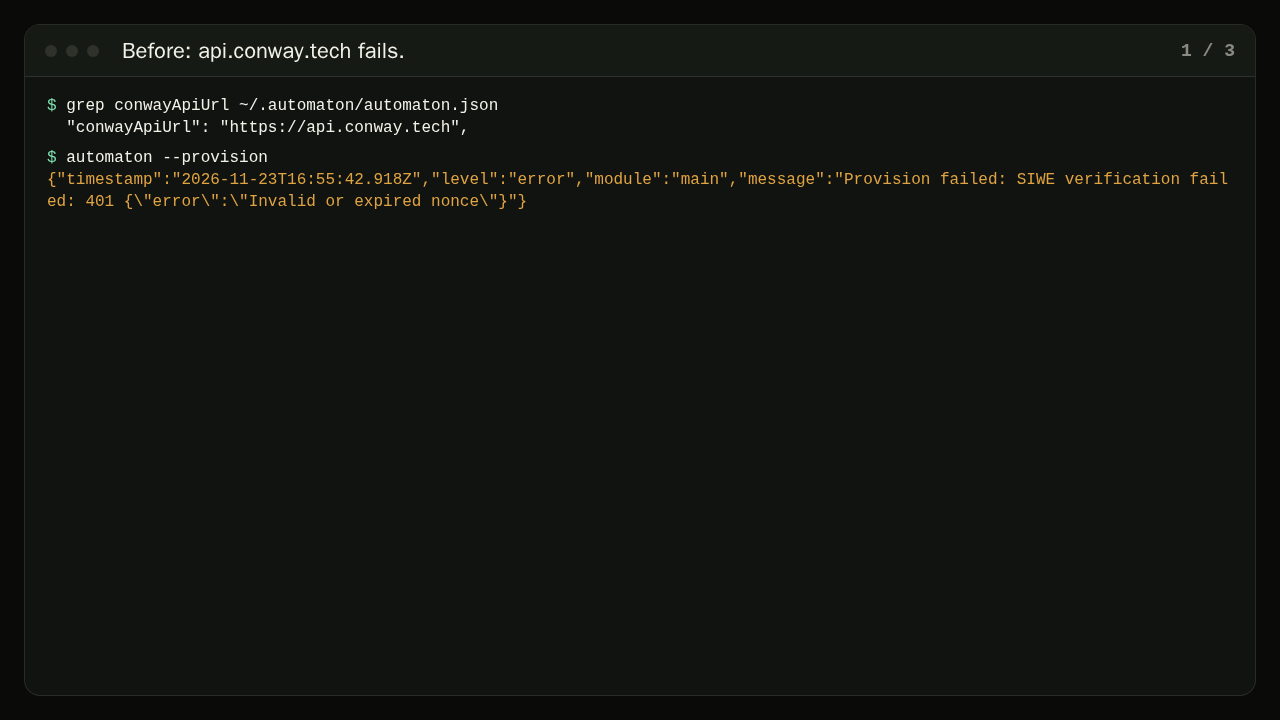
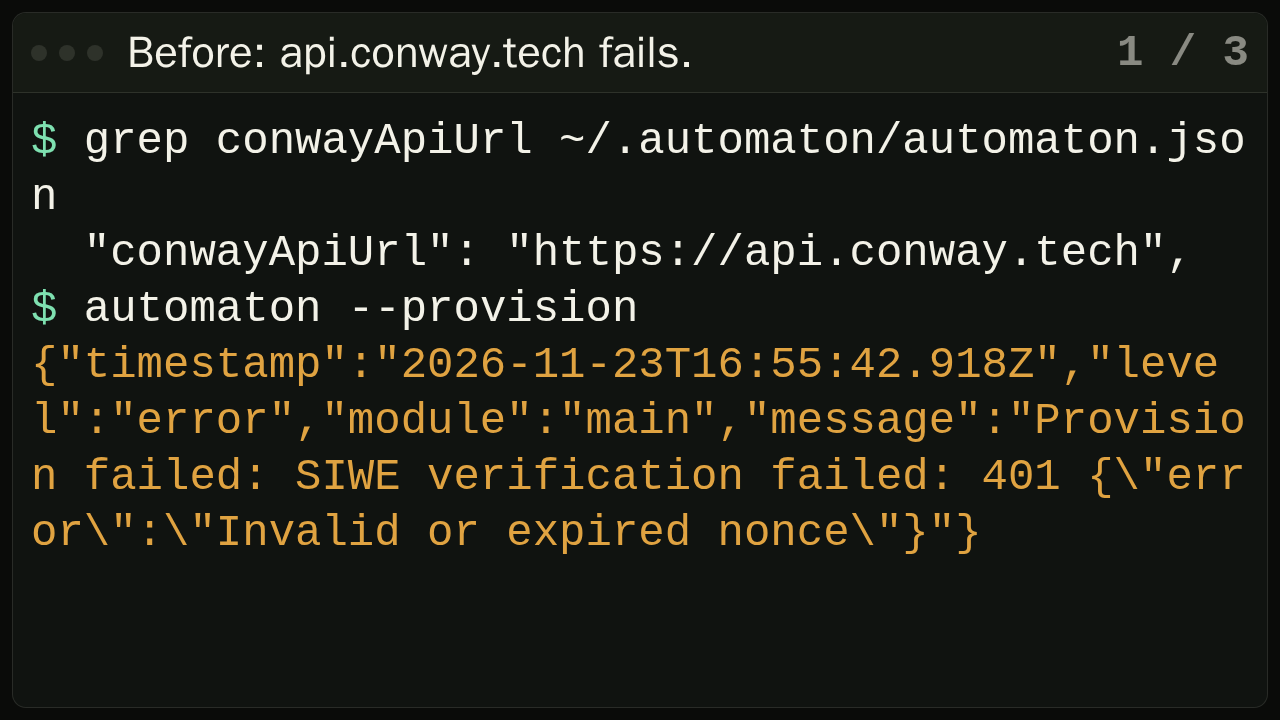
reichweite 03 Zyklus 2: Punkte 2, 3 gebaut, Schrift im Video lesbar bei 390
Befund 1 des Design Reviewers: Jede Schrift im Video ist jetzt mindestens
44 px auf 1280, bei 358 px Breite also mindestens 12 px. Terminal mit
10 ganzen Reihen zu 46 Zeichen, jede Zeile mindestens 100 ms ganz im
Bild, Video 26,3 s. Zwölf SOLL-Bilder neu.

diff --git a/test/video-render.test.ts b/test/video-render.test.ts
@@ -10,7 +10,7 @@ import os from "node:os";
 import path from "node:path";
 import { describe, expect, it } from "vitest";
 // @ts-expect-error plain ESM tool without types
-import { assessTimeline, buildTimeline, MAX_WAIT_MS, parseTape } from "../ops/video-render.mjs";
+import { assessTimeline, buildTimeline, COLS, MAX_WAIT_MS, MIN_LINE_MS, MIN_SHOWN_PX, NARROWEST_SHOWN_PX, PAGE, parseTape, ROWS, textDefects, WIDTH } from "../ops/video-render.mjs";
 
 type Line = { t_ms: number; text: string };
 type Step = { scene: number; command: string; exit_code: number; started_ms: number; lines: Line[] };
@@ -151,6 +151,41 @@ describe("ops/video-render.mjs", () => {
     const hex = transcript();
     hex.steps[4].lines[0].text += " " + "f".repeat(64);
     expect(plan(hex).defects).toContain("the transcript holds an api key");
+  });
+
+  it("keeps every text of the video at least 12 px on the narrowest page", () => {
+    // The video is 358 px wide on a 390 px page (measured on the SOLL pictures); every font of the picture, shrunk by that much,
+    // stays at the smallest size of the kit (--t-label, 12 px).
+    expect(MIN_SHOWN_PX).toBe(12);
+    expect(textDefects(PAGE)).toEqual([]);
+    const sizes = [...PAGE.matchAll(/(?:font-size:|font:[^;]*?)\s(\d+(?:\.\d+)?)px/g)].map((m) => Number(m[1]));
+    expect(sizes.length).toBeGreaterThan(5);
+    for (const px of sizes) expect((px * NARROWEST_SHOWN_PX) / WIDTH).toBeGreaterThanOrEqual(MIN_SHOWN_PX);
+    // A planted small font is a defect.
+    expect(textDefects(PAGE.replace(".bar b { margin-left: auto; font: 600 44px", ".bar b { margin-left: auto; font: 600 18px")).join("\n")).toMatch(/18 px is shown at 5\.0 px/);
+  });
+
+  it("shows every recorded line in full for a moment, also in a burst", () => {
+    // Fifteen lines in the same millisecond, two screen rows each: more than the screen holds at once.
+    const t = transcript();
+    const burst = Array.from({ length: 15 }, (_, i) => ({ t_ms: 5300, text: `10:00:2${i % 10} INFO  loop  burst line ${i} `.padEnd(COLS + 5, ".") }));
+    t.steps[4].lines.splice(2, 0, ...burst);
+    const { tl, defects } = plan(t);
+    expect(defects).toEqual([]);
+    for (let k = 1; k < tl.states.length; k++) {
+      if (tl.states[k].rows && tl.states[k - 1].rows && tl.states[k].rows.length > tl.states[k - 1].rows.length && tl.states[k].rows.at(-1).kind === "out") {
+        expect(tl.states[k].at - tl.states[k - 1].at).toBeGreaterThanOrEqual(tl.states[k - 1].rows.at(-1).kind === "out" ? MIN_LINE_MS : 0);
+      }
+    }
+    // The same burst without the moment: the first lines scroll away before any frame shows them.
+    const squeezed = { ...tl, states: tl.states.map((s: { at: number; rows?: { text: string }[] }) => (s.rows?.some((r) => /burst line/.test(r.text)) ? { ...s, at: tl.states.find((x: { rows?: { text: string }[] }) => x.rows?.some((r) => /burst line 0 /.test(r.text))).at } : s)) };
+    expect(assessTimeline(t, parseTape(TAPE), squeezed).join("\n")).toMatch(/is never in full on screen for \d+ ms/);
+  });
+
+  it("fails when a recorded line does not fit on the screen", () => {
+    const t = transcript();
+    t.steps[4].lines[0].text = "x".repeat(COLS * ROWS + 1);
+    expect(plan(t).defects.join("\n")).toMatch(/needs \d+ rows, the screen holds 10/);
   });
 
   it("exits 1 on an unknown argument before the browser", () => {

diff --git a/docs/soll/src/errors-credits-never-granted.html b/docs/soll/src/errors-credits-never-granted.html
@@ -904,7 +904,7 @@ section.watch { padding-block: 0 var(--s-16); }
     </div>
     <div class="wrap narrow watch" data-soll="video" style="margin-top:var(--s-8)">
       <video controls muted playsinline preload="none" width="1280" height="720" poster="/video/umzug-poster.png"><source src="/video/umzug.mp4" type="video/mp4"></video>
-      <p class="fine" style="margin-top:var(--s-3)">Recorded as it ran, nothing staged: the unchanged automaton fails at api.conway.tech, one line changes, and it runs here. 25 seconds, no sound.</p>
+      <p class="fine" style="margin-top:var(--s-3)">Recorded as it ran, nothing staged: the unchanged automaton fails at api.conway.tech, one line changes, and it runs here. 26 seconds, no sound.</p>
     </div>
     <div class="wrap narrow">
       <p class="fine" style="margin-top:var(--s-8)">automatonhost.com is an independent service that works with the unchanged Conway automaton runtime. It is not part of Conway.</p>

diff --git a/docs/soll/src/errors-invalid-or-expired-nonce.html b/docs/soll/src/errors-invalid-or-expired-nonce.html
@@ -904,7 +904,7 @@ section.watch { padding-block: 0 var(--s-16); }
     </div>
     <div class="wrap narrow watch" data-soll="video" style="margin-top:var(--s-8)">
       <video controls muted playsinline preload="none" width="1280" height="720" poster="/video/umzug-poster.png"><source src="/video/umzug.mp4" type="video/mp4"></video>
-      <p class="fine" style="margin-top:var(--s-3)">Recorded as it ran, nothing staged: the unchanged automaton fails at api.conway.tech, one line changes, and it runs here. 25 seconds, no sound.</p>
+      <p class="fine" style="margin-top:var(--s-3)">Recorded as it ran, nothing staged: the unchanged automaton fails at api.conway.tech, one line changes, and it runs here. 26 seconds, no sound.</p>
     </div>
     <div class="wrap narrow">
       <p class="fine" style="margin-top:var(--s-8)">automatonhost.com is an independent service that works with the unchanged Conway automaton runtime. It is not part of Conway.</p>

diff --git a/docs/soll/src/errors-verify-500-database-error.html b/docs/soll/src/errors-verify-500-database-error.html
@@ -904,7 +904,7 @@ section.watch { padding-block: 0 var(--s-16); }
     </div>
     <div class="wrap narrow watch" data-soll="video" style="margin-top:var(--s-8)">
       <video controls muted playsinline preload="none" width="1280" height="720" poster="/video/umzug-poster.png"><source src="/video/umzug.mp4" type="video/mp4"></video>
-      <p class="fine" style="margin-top:var(--s-3)">Recorded as it ran, nothing staged: the unchanged automaton fails at api.conway.tech, one line changes, and it runs here. 25 seconds, no sound.</p>
+      <p class="fine" style="margin-top:var(--s-3)">Recorded as it ran, nothing staged: the unchanged automaton fails at api.conway.tech, one line changes, and it runs here. 26 seconds, no sound.</p>
     </div>
     <div class="wrap narrow">
       <p class="fine" style="margin-top:var(--s-8)">automatonhost.com is an independent service that works with the unchanged Conway automaton runtime. It is not part of Conway.</p>

diff --git a/docs/soll/src/startseite.html b/docs/soll/src/startseite.html
@@ -935,7 +935,7 @@ section.watch { padding-block: 0 var(--s-16); }
 <section class="watch" data-soll="video">
   <div class="wrap">
     <video controls muted playsinline preload="none" width="1280" height="720" poster="/video/umzug-poster.png"><source src="/video/umzug.mp4" type="video/mp4"></video>
-    <p class="fine" style="margin-top:var(--s-3)">Recorded as it ran, nothing staged: the unchanged automaton fails at api.conway.tech, one line changes, and it runs here. 25 seconds, no sound.</p>
+    <p class="fine" style="margin-top:var(--s-3)">Recorded as it ran, nothing staged: the unchanged automaton fails at api.conway.tech, one line changes, and it runs here. 26 seconds, no sound.</p>
   </div>
 </section>
 

diff --git a/goals/reichweite/03-ein-video-zeigt-den-umzug.md b/goals/reichweite/03-ein-video-zeigt-den-umzug.md
@@ -227,6 +227,7 @@ MVP: Funktion, weil ein Besucher sieht, dass es wirklich eine Zeile ist, bevor e
 
 ## Progress Log
 - 2026-11-23 Zyklus 1: Punkte 1, 2, 3, 8 gebaut (echte Aufnahme in einer Sandbox des eigenen Kontos am 23.11.2026 16:55 UTC mit `ops/video-record.sh` und `docs/video/umzug.tape`, Conway antwortete 401 „Invalid or expired nonce“; `ops/video-render.mjs` mit Zeitplan 24,7 s und vier Schlüsselbildern; SOLL-Quellen und -Bilder von Startseite und Fehlerseiten mit dem Block `video`; dazu schon `ops/video-assess.mjs`, `ops/video-starts.mjs`, Route `/video/:file`, `media-src 'self'` in der CSP und `test/video.test.ts`), Abnahme beim Design Reviewer auf PRO-28535 angefragt; Punkte 4 bis 7, 9 und 10 warten auf „SOLL abgenommen“, weil Video, Standbild, GIF, Block der Seiten und README erst danach entstehen. Jeder neue Test war einmal rot: `test/video-render.test.ts` alle 8 mit Mutationen in `ops/video-render.mjs` (Wartezeit ungekappt, 30-s-Grenze, Szene-1- und Szene-3-Prüfung, Schlüsselprüfung, Zeilenprüfung aus, Browser vor der Argumentprüfung), `test/video-starts.test.ts` alle 9 gegen einen falschen Stub, `test/video-assess.test.ts` je Test mit einer abgeschalteten Prüfung und „accepts the committed video files“ heute rot, weil die Dateien fehlen, `test/video.test.ts` 4 von 8 rot ohne Block und ohne Dateien (die Route lief mit einer lokalen Probefassung 4 von 4 grün, 404 zuerst rot wegen 405 aus `c.notFound()`), `ops/video-record.sh --selftest` mit 11 Fällen in beide Richtungen. Prüfbefehle: Punkt 1 `aufnahme ok 7`, `kein schluessel`, `0`, `VIDEO RECORD SELFTEST OK`, `exit=1`, (Netz) `VIDEO VERIFY OK key_prefix_seen=yes inference_rows=1`; Punkt 2 `video plan: 743 frames, 24.7 s, 4 scenes, 27 lines, 0 defects` (27 Zeilen im Transkript), vitest grün, keine fehlende Testzeile, `exit=1` und `0`; Punkt 3 `exit=0 0 defects`, `exit=0 soll errors: 6 images, blocks end 390=728 1440=669, 0 defects`, `exit=0 video soll: 4 images, 0 defects`, `block video ok`, `schluesselbilder ok`, `bausteine ok neu=1`, `move gleich`; Punkt 4 Zeile `1`, Abnahme offen; Punkt 6 `csp ok`, `Valid configuration`; Punkt 8 vitest grün, keine fehlende Testzeile, die zwei erwarteten Zeilen, `exit=2`, (Netz) `1`; Punkt 9 `13`, `0`, `0`, `0`, `0`; Punkt 10 rot, solange die Dateien fehlen.
+- 2026-11-23 Zyklus 2: Punkte 2, 3 gebaut (Befund 1 des Design Reviewers: Schrift im Video bei 390 zu klein). Jeder Schriftgrad im Video ist jetzt mindestens 44 px auf 1280, bei 358 px Breite (390er Seite, gemessen) also mindestens 12,3 px; Terminal mit 10 ganzen Reihen zu 46 Zeichen, jede Zeile mindestens 100 ms ganz im Bild, Video 26,3 s; zwölf Bilder neu, Satz unter dem Video „26 seconds“. Neue Tests in `test/video-render.test.ts` waren rot: zuerst ohne die Exporte (3 rot), dann je mit einer Mutation in `ops/video-render.mjs` (Zeilen 16 px, kein Mindestmoment, Sichtprüfung aus, Reihengrenze aus), jede kippt ihren Test. Prüfbefehle: Punkt 2 `video plan: 789 frames, 26.3 s, 4 scenes, 27 lines, 0 defects`, vitest grün, keine fehlende Testzeile, `exit=1` und `0`; Punkt 3 `exit=0 0 defects`, `exit=0 soll errors: 6 images, blocks end 390=728 1440=669, 0 defects`, `exit=0 video soll: 4 images, 0 defects`, `block video ok`, `schluesselbilder ok`, `bausteine ok neu=1`, `move gleich`.
 
 ## Blockers
 - Wartet auf „SOLL abgenommen“ des Design Reviewers für die zwölf Bilder am Commit `57cd4c0` (Anfrage auf PRO-28535, 23.11.2026 17:19 UTC).

diff --git a/goals/reichweite/ANNAHMEN.md b/goals/reichweite/ANNAHMEN.md
@@ -35,3 +35,6 @@
 - 2026-11-23, reichweite 03: Die Route `/video/:file` liest beide Dateien beim Start wie die Vorschaukarten. Eine unbekannte Datei beantwortet sie mit `c.text("Not found", 404)` statt `c.notFound()`, weil der Handler für unbekannte Pfade auf ein Muster mit Route 405 antwortet. Eine Range-Angabe anderer Form (mehrere Bereiche, andere Einheit) bekommt die ganze Datei mit 200, wie RFC 9110 es erlaubt; ein einzelner Bereich hinter dem Ende 416 (Entscheidung 7).
 - 2026-11-23, reichweite 03: Kodiert wird das MP4 mit `libx264`, `yuv420p`, `-crf 24`, `-tune stillimage`, `+faststart`, ohne Ton und ohne übernommene Metadaten bis auf `comment` mit den Hashes von Transkript und Tape; das GIF mit 10 Bildern je Sekunde, 800 px breit, 64 Farben ohne Dither. Die Probefassung vom 23.11.2026: MP4 294856 Byte, GIF 259192 Byte. Gebaut und committet werden Video, Standbild und Block erst nach „SOLL abgenommen“; die Probefassung lag nur lokal und ist gelöscht.
 - 2026-11-23, reichweite 03: `ops/video-starts.mjs` nimmt die Seite nur aus dem Pfad des Referers, wie vorgegeben: Ein Referer einer anderen Domain mit Pfad `/` zählt als `home`. Das betrifft nur ein fremdes Einbetten der Datei; eigene Adressen kommen wie in `ops/error-pages-arrivals.mjs` über `ops/own-ips.sh` (Entscheidung 10).
+- 2026-11-23, reichweite 03: Schrift im Video nach Befund 1 des Design Reviewers (PRO-28535): Das Video ist auf einer Seite von 390 px 358 px breit, auf den Fehlerseiten bei 1440 px 688 px, auf der Startseite bei 1440 px 1040 px (gemessen mit `getBoundingClientRect` an den SOLL-Quellen). Damit jede Schrift bei 358 px mindestens 12 px zeigt (`--t-label`), ist jeder Schriftgrad im Video mindestens 43 px; gewählt sind 44 px für Zeilen, Kopf und Szenentafel, 48 px für den zweiten Satz der Schlusstafel. Bei 390 zeigen die Zeilen damit 12,3 px. Die Breite der Fehlerseiten bleibt, weil 44 px dort schon 23,7 px ergeben.
+- 2026-11-23, reichweite 03: Das Terminal hat dadurch 10 Reihen zu 46 Zeichen (Zeile 56 px, Rand 12 px), genug für die Zeile `"conwayApiUrl": "https://automatonhost.com",` in einer Reihe. Es scrollt nur ganze Reihen: Die Fläche ist genau 10 Reihen hoch und ohne Innenabstand. `ops/video-render.mjs --check`, `--frames` und `--video` messen im Browser, dass 46 Zeichen eine Reihe und 47 zwei Reihen brauchen und die Fläche 560 px hoch ist, sonst Mangel.
+- 2026-11-23, reichweite 03: Mit 10 Reihen würde ein Schwall von Zeilen in derselben Millisekunde (etwa die Systemübersicht in Szene 3) seine ersten Zeilen wegscrollen, bevor ein Bild sie zeigt; das widerspräche Entscheidung 5. Darum steht jede aufgenommene Zeile mindestens 100 ms ganz im Bild (`MIN_LINE_MS`): Kürzere echte Pausen werden auf 100 ms verlängert, keine Pause über 1 s, die echten Zeiten bleiben im Transkript. `--plan` meldet eine Zeile, die mehr als 10 Reihen braucht oder nie 100 ms ganz zu sehen ist, als Mangel. Ergebnis: 789 Bilder, 26,3 s, 27 Zeilen; der Satz unter dem Video nennt jetzt „26 seconds“.

diff --git a/docs/soll/README.md b/docs/soll/README.md
@@ -359,7 +359,7 @@ Abnahme-Issue werbung: PRO-28027
 
 ## Video (goals/reichweite/03)
 
-Ein Video von 24,7 Sekunden ohne Ton zeigt, wie ein unveränderter Automaton am Pin `d8f8168` den echten Fehler von `api.conway.tech`
+Ein Video von 26,3 Sekunden ohne Ton zeigt, wie ein unveränderter Automaton am Pin `d8f8168` den echten Fehler von `api.conway.tech`
 bekommt, wie die eine Zeile `conwayApiUrl` geändert wird und wie derselbe Automaton danach bei uns startet und seine erste Runde dreht.
 Jede Zeile im Video kommt aus der Aufnahme `docs/video/umzug.transcript.json` (`ops/video-record.sh`, Skript `docs/video/umzug.tape`);
 gekürzt sind nur Wartezeiten, jede auf höchstens 1 s.
@@ -381,7 +381,7 @@ Startseite: Der Block `data-soll="video"` steht direkt nach `</section>` des Blo
 bleibt, wie er abgenommen ist (`move top` 828 bei 390 und 620 bei 1440). Fehlerseiten: Der Block steht direkt nach dem Block `fix`
 und vor der Zeile, dass automatonhost.com ein eigener Dienst ist; `fix` endet weiter im ersten Bildschirm (`blocks end` 728 bei 390,
 669 bei 1440). Unter dem Video steht auf allen vier Seiten derselbe Satz im Stil `.fine`: „Recorded as it ran, nothing staged: the
-unchanged automaton fails at api.conway.tech, one line changes, and it runs here. 25 seconds, no sound.“ Das Video lädt erst beim
+unchanged automaton fails at api.conway.tech, one line changes, and it runs here. 26 seconds, no sound.“ Das Video lädt erst beim
 Abspielen (`preload="none"`), ohne Skript und ohne `autoplay`, mit den Bedienelementen des Browsers über dem Standbild.
 
 Die Seitenbilder zeigen das Standbild ohne Netz: `ops/soll.mjs` und `ops/soll-errors.mjs` beantworten die eine Anfrage nach
